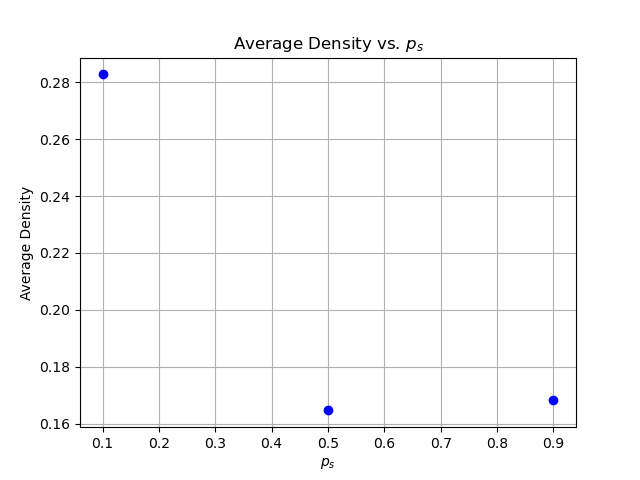
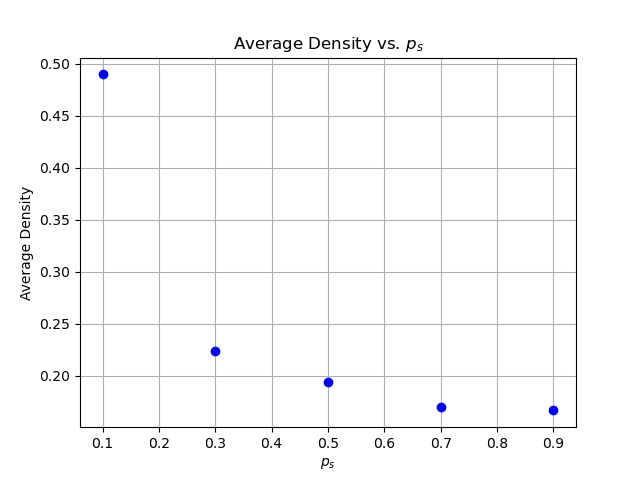
made monte carlo more memory efficient. Implemented big parameter sweep.

diff --git a/src/monte_carlo.py b/src/monte_carlo.py
@@ -11,16 +11,16 @@ AGGREGATE_STATE = 2
 
 
 @njit
-def init_grid(height, width):
+def init_grid(height, width, seed):
+    x, y = seed
     grid = np.zeros((height, width))
-    grid[height - 1, (width//2)] = AGGREGATE_STATE
+    grid[x, y] = AGGREGATE_STATE
     return grid
 
 
 @njit
 def place_walker(grid):
     empty_cells = np.argwhere(grid[1, :] == EMPTY_STATE).flatten()
-
     if empty_cells.size > 0:
         y = np.random.choice(empty_cells)  # Choose a column index
         grid[1, y] = WALKER_STATE  # Place walker at row 1, chosen column
@@ -30,10 +30,10 @@ def place_walker(grid):
 @njit
 def identify_neighbors(i, j, height, width):
     return np.array([
-        (max(0, i-1), j),  # Top
-        (min(height-1, i+1), j),  # Bottom
-        (i, (j-1) % width),  # Left (Periodic)
-        (i, (j+1) % width)  # Right (Periodic)
+        (max(0, i-1), j),             # Top
+        (min(height-1, i+1), j),        # Bottom
+        (i, (j-1) % width),           # Left (Periodic)
+        (i, (j+1) % width)            # Right (Periodic)
     ], dtype=np.int64)
 
 
@@ -42,18 +42,14 @@ def move_walker(grid, i, j, height, width):
     if grid[i, j] == WALKER_STATE:
         neighbors = identify_neighbors(i, j, height, width)
         empty_neighbors = []
-
         for ni, nj in neighbors:
             if grid[ni, nj] == EMPTY_STATE:
                 empty_neighbors.append((ni, nj))
-
         if len(empty_neighbors) > 0:
-            # Choose index instead of `random.choice`
             idx = np.random.randint(len(empty_neighbors))
             target_x, target_y = empty_neighbors[idx]
             grid[target_x, target_y] = WALKER_STATE
             grid[i, j] = EMPTY_STATE
-
     return grid
 
 
@@ -70,64 +66,69 @@ def apply_vertical_boundaries(grid, i, j):
 def apply_aggregation(grid, i, j, height, width, p_s):
     p = np.random.random()
     neighbors = identify_neighbors(i, j, height, width)
-
-    # Shuffle without using `random.shuffle`
+    # Shuffle without using random.shuffle
     for idx in np.random.permutation(len(neighbors)):
         ni, nj = neighbors[idx]
         if grid[ni, nj] == AGGREGATE_STATE and p <= p_s:
             grid[i, j] = AGGREGATE_STATE
             return grid
-
     return grid
 
 
 @njit
-def simulate(height, width, size, p_s, max_steps):
-    # Pre-allocate with a reasonable max_steps value
-    results = np.zeros((max_steps, height, width), dtype=np.int64)
-    grid = np.zeros((height, width), dtype=np.int64)
-    grid = init_grid(height, width)
-
-    cluster_size = 0
+def simulate(height, width, size, p_s, seed, max_steps, store_all=True):
+    # Initialize grid and variables
+    grid = init_grid(height, width, seed)
+    cluster_size = np.sum(grid == AGGREGATE_STATE)
     step = 0
 
+    if store_all:
+        results = np.zeros((max_steps, height, width), dtype=np.int64)
+    
     while cluster_size < size and step < max_steps:
-        print(f"Step {step}")
+        # Print progress every 1000 steps
+        if step % 1000 == 0:
+            print("Simulation progress: step", step, "cluster size", cluster_size)
         new_grid = grid.copy()
 
-        # Place walker
+        # Place walker in a random empty cell at row 1
         empty_cells = np.where(new_grid[1, :] == EMPTY_STATE)[0]
         if empty_cells.size > 0:
             y = empty_cells[np.random.randint(empty_cells.size)]
             new_grid[1, y] = WALKER_STATE
 
         walker_positions = np.argwhere(new_grid == WALKER_STATE)
-
         for pos in walker_positions:
             i, j = pos
             new_grid = apply_aggregation(new_grid, i, j, height, width, p_s)
 
         walker_positions = np.argwhere(new_grid == WALKER_STATE)
-
         for pos in walker_positions:
             i, j = pos
             new_grid = move_walker(new_grid, i, j, height, width)
 
         walker_positions = np.argwhere(new_grid == WALKER_STATE)
-
         for pos in walker_positions:
             i, j = pos
             new_grid = apply_vertical_boundaries(new_grid, i, j)
 
-        results[step] = new_grid
-        grid = new_grid  # Update grid
+        if store_all:
+            results[step] = new_grid
 
+        grid = new_grid  # Update grid for next step
         cluster_size = np.sum(grid == AGGREGATE_STATE)
         step += 1
 
-    print(f"Simulation finished at step {step}. Cluster size: {cluster_size}")
-    # Return only the filled portion of the results array
-    return results[:step]
+    print("Simulation finished at step", step, ". Cluster size:", cluster_size)
+    
+    if store_all:
+        # Return only the filled portion of the results array
+        return results[:step]
+    else:
+        # Wrap the final grid into a 3D array (one frame)
+        final = np.empty((1, height, width), dtype=np.int64)
+        final[0] = grid
+        return final
 
 
 def save_simulation(results, filename):
@@ -155,29 +156,24 @@ def p_sweep(height, width, steps, p_s_vals, max_steps, num_runs):
     avg_densities = []
 
     for p_s in p_s_vals:
+        print("Starting simulations for p_s =", p_s)
         densities = []
         p_s_results = []  # All results for this p_s value
-        
         for i in range(num_runs):
-            print(f"Simulating for p_s = {p_s}. Run {i+1}/{num_runs}...")
-            result = simulate(height, width, steps, p_s, max_steps)  # Run simulation
-            
-            # Store the result for statistical analysis
+            print(f"  p_s = {p_s}: Run {i+1}/{num_runs}")
+            # Run simulation without storing all frames to save memory
+            result = simulate(height, width, steps, p_s, seed, max_steps, store_all=False)
             p_s_results.append(result)
-            
-            # Store the first run for visualization
+
             if i == 0:
                 visualization_results.append(result)
-                
+
             density = calculate_density(result, steps)
             densities.append(density)
-        
-        # Store all results for this p_s value
-        all_results.append(p_s_results)
-        
         avg_density = np.mean(densities)
         avg_densities.append(avg_density)
-
+        all_results.append(p_s_results)
+        print("Finished simulations for p_s =", p_s, "with average density =", avg_density)
     return visualization_results, avg_densities, all_results
 
 
@@ -195,24 +191,22 @@ def plot_avg_density(p_s_vals, avg_densities, save=False):
 def plot_p_sweep(visualization_results, p_s_vals, save=False):
     num_plots = len(p_s_vals)
     rows = (num_plots // 3) + (num_plots % 3 > 0)  # Auto-calculate rows
-    fig, ax = plt.subplots(rows, 3, figsize=(15, 5 * rows), squeeze=False)  # Ensure it's always 2D
-
+    fig, ax = plt.subplots(rows, 3, figsize=(15, 5 * rows), squeeze=False)
     for i in range(len(visualization_results)):
         r, c = i // 3, i % 3
         ax[r, c].imshow(visualization_results[i][-1], cmap="cubehelix")
         ax[r, c].set_title(fr"$p_s$ = {p_s_vals[i]:.1f}")
         ax[r, c].axis("off")
-
     # Hide unused subplots
     for i in range(num_plots, rows * 3):
         r, c = i // 3, i % 3
         if r < len(ax) and c < len(ax[0]):
             ax[r, c].axis('off')
-            
     plt.tight_layout()
     if save:
         plt.savefig("fig/p_sweep.png")
     plt.show()
+
 
 def plot_last_frame(results):
     plt.imshow(results[-1], cmap="magma")
@@ -221,19 +215,11 @@ def plot_last_frame(results):
 
 @njit
 def calculate_density(results, size):
+    # results is assumed to be a 3D array with the final frame as the last element (or only element)
     last_frame = results[-1]
-
-    # Find aggregate positions
     aggregate_positions = np.argwhere(last_frame == AGGREGATE_STATE)
-
-    # Cluster height: max row - min row
-    cluster_height = (aggregate_positions[:, 0].max() -
-                      aggregate_positions[:, 0].min() + 1)
-
-    # Cluster width: max column - min column
-    cluster_width = (aggregate_positions[:, 1].max() -
-                     aggregate_positions[:, 1].min() + 1)
-
+    cluster_height = (aggregate_positions[:, 0].max() - aggregate_positions[:, 0].min() + 1)
+    cluster_width = (aggregate_positions[:, 1].max() - aggregate_positions[:, 1].min() + 1)
     density = size / (cluster_height * cluster_width)
     return density
 
@@ -243,14 +229,11 @@ if __name__ == "__main__":
     width = 101
     size = 500
     p_s_vals = np.linspace(0.1, 0.9, 5)
-    max_steps = 16_000
-    num_runs = 2
-    
-    #results = simulate(height, width, size, p_s_vals[1], max_steps)
-    #plot_last_frame(results)
-    # shortened_results = results[7500:-1]
-    # animate_simulation(shortened_results)
+    max_steps = 20_000
+    num_runs = 10
+    seed = (height - 1, (width // 2))
 
+    # For p-sweep, run without storing all frames to save memory
     visualization_results, avg_densities, all_results = p_sweep(height, width, size, p_s_vals, max_steps, num_runs)
     plot_p_sweep(visualization_results, p_s_vals, save=True)
     plot_avg_density(p_s_vals, avg_densities, save=True)
